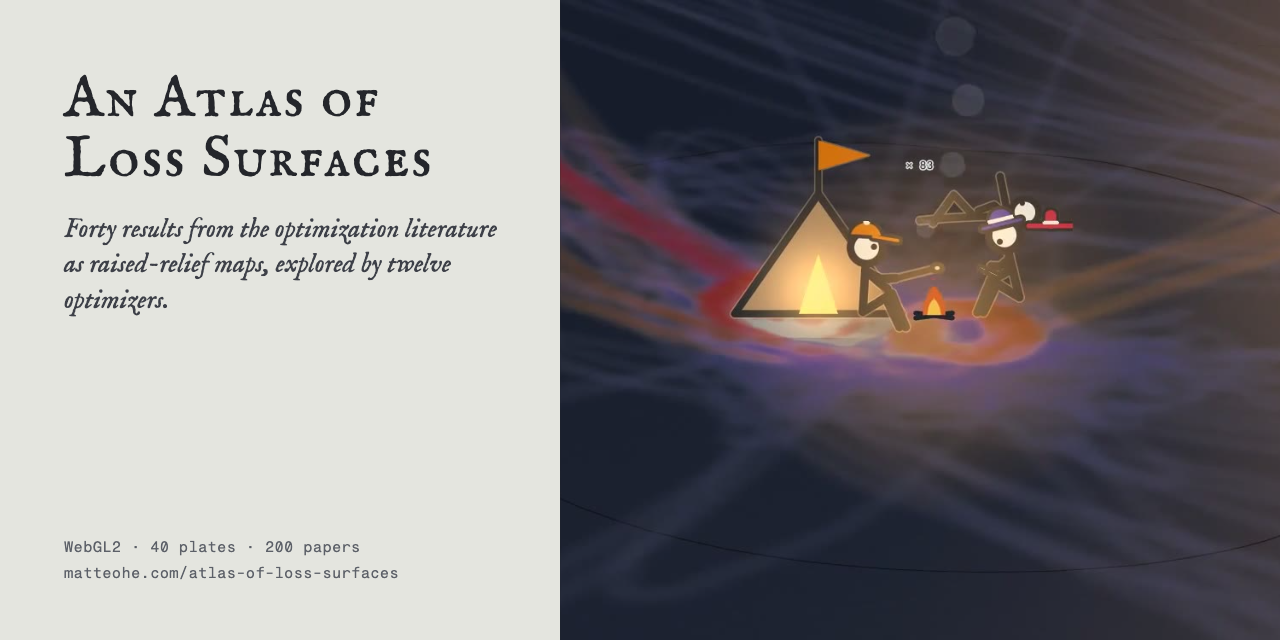
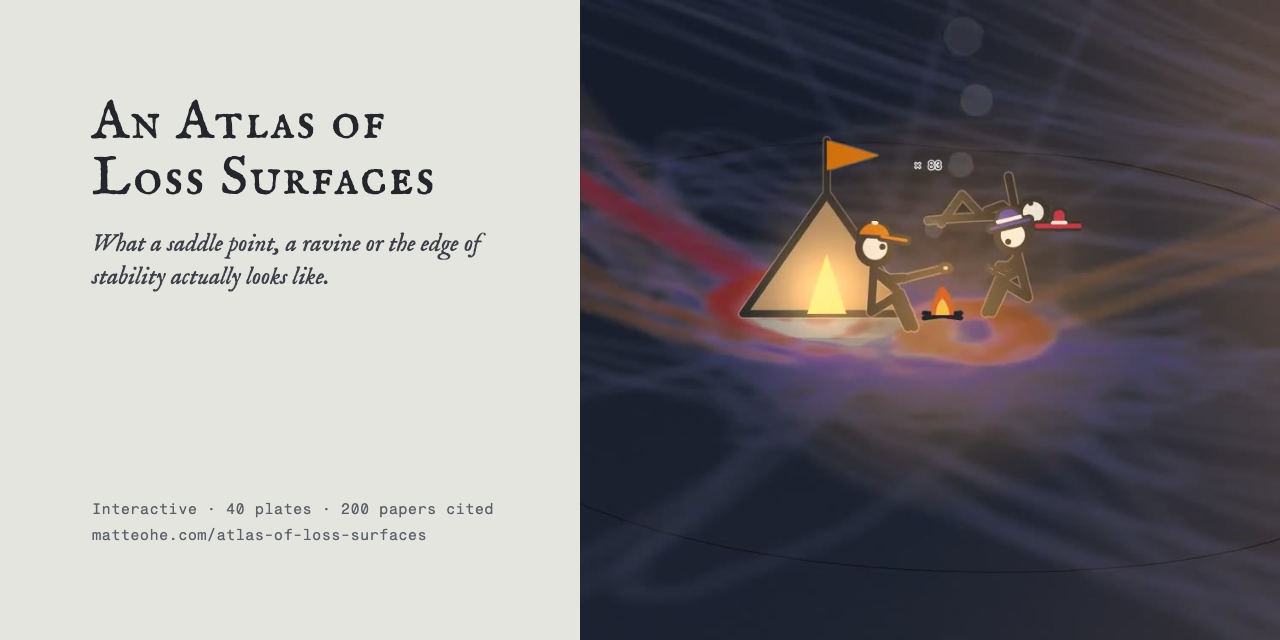
docs: new tagline and intro, page metadata, citation licences; longer smoke-test timeouts
- README intro, page description and the tagline under the title
- README: reference count, Node 20+, how the code and text are built
- index.html: og:image:alt and og:url; CITATION.cff lists MIT and CC-BY-4.0
- smoke test: reduced motion, 60 s page load and 30 s per plate turn, phone at
  device scale 1, so software WebGL on the CI runner no longer times out

diff --git a/index.html b/index.html
@@ -4,11 +4,13 @@
 <meta charset="utf-8">
 <meta name="viewport" content="width=device-width, initial-scale=1, viewport-fit=cover">
 <title>An Atlas of Loss Surfaces</title>
-<meta name="description" content="Forty loss surfaces in raised relief, explored by twelve optimizers: an interactive atlas of results from the optimization literature, from saddles and the edge of stability to catapults, games and post-training.">
+<meta name="description" content="A map of the places gradient descent gets stuck, and the ways it gets out: interactive loss surfaces from the optimization literature, drawn in raised relief, each citing its sources.">
 <meta property="og:type" content="website">
 <meta property="og:title" content="An Atlas of Loss Surfaces">
-<meta property="og:description" content="Forty loss surfaces in raised relief, explored by twelve optimizers: an interactive atlas of results from the optimization literature, from saddles and the edge of stability to catapults, games and post-training.">
+<meta property="og:description" content="A map of the places gradient descent gets stuck, and the ways it gets out: interactive loss surfaces from the optimization literature, drawn in raised relief, each citing its sources.">
 <meta property="og:image" content="https://matteohe.com/atlas-of-loss-surfaces/img/preview.jpg">
+<meta property="og:image:alt" content="Dusk on a raised-relief loss surface: stick men round a campfire by a paper tent, one toasting a marshmallow, one lying back">
+<meta property="og:url" content="https://matteohe.com/atlas-of-loss-surfaces/">
 <meta name="twitter:card" content="summary_large_image">
 <link rel="canonical" href="https://matteohe.com/atlas-of-loss-surfaces/">
 <link rel="stylesheet" href="css/frame.css">

diff --git a/js/atlas.js b/js/atlas.js
@@ -4106,8 +4106,8 @@ const SIMKEYS = {
   beta2: { label: 'Adam β₂', min: 0.9, max: 0.9999, step: 0.0001, f: (v) => v.toFixed(4) },
 };
 const F = Frame.init({ standalone: true, byline: 'By hematteo, made with Claude (Anthropic).',
-  slug: 'pilgrims', number: 3, title: 'An Atlas of Loss Surfaces', year: 2026,
-  medium: "Forty loss surfaces in raised relief, explored by twelve optimizers",
+  slug: 'atlas-of-loss-surfaces', number: 3, title: 'An Atlas of Loss Surfaces', year: 2026,
+  medium: "A map of the places gradient descent gets stuck, and the ways it gets out.",
   tone: 'light', accent: '#4b3fa0', seed: 1938, maxDpr: 2,
   statement: TEXT.about,
   hint: 'drag to turn · right-drag to pan · scroll to approach · click to release a cohort · <kbd>↑</kbd><kbd>↓</kbd> plates',

diff --git a/README.md b/README.md
@@ -5,10 +5,10 @@
 [![Licence: MIT](https://img.shields.io/badge/code-MIT-24262b)](LICENSE)
 [![Content: CC BY 4.0](https://img.shields.io/badge/content-CC%20BY%204.0-24262b)](https://creativecommons.org/licenses/by/4.0/)
 
-Forty results from the optimization literature, drawn as raised-relief maps you can turn and approach, and explored
-by twelve optimizers. Each plate is a seeded two-parameter surface `L(θ₁, θ₂)` built to show one phenomenon. Particles
-cross it taking real optimizer steps, leave ink, and come to rest where the theory says they should. The plates cite
-[200 papers](REFERENCES.md).
+I wanted to see what the optimization papers describe, so I drew it. Each plate is a small loss surface built to show
+one thing from the literature, such as a saddle, a ravine or the edge of stability, as a raised-relief map you can turn
+and approach. Particles cross it taking real optimizer steps, leave ink, and come to rest where the theory says they
+should. Every plate cites its sources ([277 works](REFERENCES.md)).
 
 **[Open the atlas →](https://matteohe.com/atlas-of-loss-surfaces/)**
 
@@ -16,10 +16,10 @@ cross it taking real optimizer steps, leave ink, and come to rest where the theo
 
 The plates are grouped in eight chapters:
 
-![One plate from each chapter: Ravines, Stability and catapults, Adam and the axes, The river valley, Mode connectivity, Rastrigin's egg crate, Two players on one sheet, The safety basin](img/chapters.jpg)
+![One plate from each chapter: Ravines, Stability and catapults, Adam, sign descent and the axes, The river valley, Mode connectivity, Rastrigin's egg crate, Two players on one sheet, The safety basin](img/chapters.jpg)
 
 
-1. **Landforms**: basins of attraction, saddles, plateaus, ravines, cliffs, sharp and flat minima
+1. **Landforms**: a survey of a loss surface, basins of attraction, saddles, plateaus, ravines, cliffs, sharp and flat minima
 2. **Step size and noise**: stability and catapults, the edge of stability, implicit gradient regularization, noise as
    temperature, the shape and the tails of the noise, label noise
 3. **Optimizers**: momentum, Adam and sign descent, weight decay and scale invariance, Newton's method, sharpness-aware
@@ -38,8 +38,9 @@ saddle-free Newton and schedule-free SGD, plus plate-specific update rules for g
 
 Every sheet is an analytic function, and every number printed on a plate is computed from the surface it is printed
 on: critical points by Newton's method, curvatures from the Hessian, and rates, escape times and equilibria measured
-from the particles. Each plate card states the finding, cites the papers it comes from, says how settled the result
-is, and gives experiments to try, with predictions that were checked in the page. The about panel (**I**) explains
+from the particles. Each plate card states the finding, cites the papers it comes from, says for most plates how
+settled the result is, and gives experiments to try, with predictions that were checked in the page. Where the result
+works differently in networks with millions or billions of parameters, a section of the card, *At scale*, says how. The about panel (**I**) explains
 what a two-parameter map cannot show.
 
 Come close and the particles become stick men. Their gait, poses and reactions are read from the optimizer's state:
@@ -57,14 +58,15 @@ the minimum is for their step size.
   (**O**).
 - **P** parameters and seed, **S** capture the frame as a PNG, **H** hide the interface.
 
-It runs in any browser with WebGL2. It is plain HTML, JavaScript and WebGL2, with no libraries and no build step. To
+It runs in any browser with WebGL2. It is plain HTML, JavaScript and WebGL2, with no JavaScript libraries and nothing to build before serving it. To
 run it locally, open `index.html`, or serve the folder with `python3 -m http.server`.
 
 ## Editing the text
 
 All the prose is Markdown in [`text/`](text/): one file per plate, plus the glossary and the about panel. You can edit
 it without reading any code. [`text/README.md`](text/README.md) describes the format. After editing, run
-`npm run text` (it needs only Node) to rebuild `js/text.js`, which the page loads, and commit both.
+`npm run text` (it needs only Node 20 or later) to rebuild `js/text.js`, which the page loads, and `REFERENCES.md`, and
+commit them with your edits.
 
 ## How the code is laid out
 
@@ -76,7 +78,8 @@ it without reading any code. [`text/README.md`](text/README.md) describes the fo
     refinement, Hessian classification), cross-sections and the disconnectivity scaffold;
   - the optimizers and the forty plates. Each plate is one object, `plate({ … })`, holding its sheet builder, names,
     experiments and figure; `plate()` adds its text from `TEXT.plates[id]`. Plates sit in blocks marked
-    `// <<chN … // chN>>`; a plate's chapter is its `ch` field, and the reading order is the `ORDER` list;
+    `// <<chN … // chN>>`, which group them roughly in the order they were written, not by chapter; a plate's chapter
+    is its `ch` field, and the reading order is the `ORDER` list;
   - the WebGL renderer (relief, ink, baked shadows, and the stick men, drawn as signed-distance figures in a
     fragment shader) and the printed layer (names, contours, margin);
   - the particles: a struct-of-arrays simulation that steps every optimizer on the same stochastic gradient;
